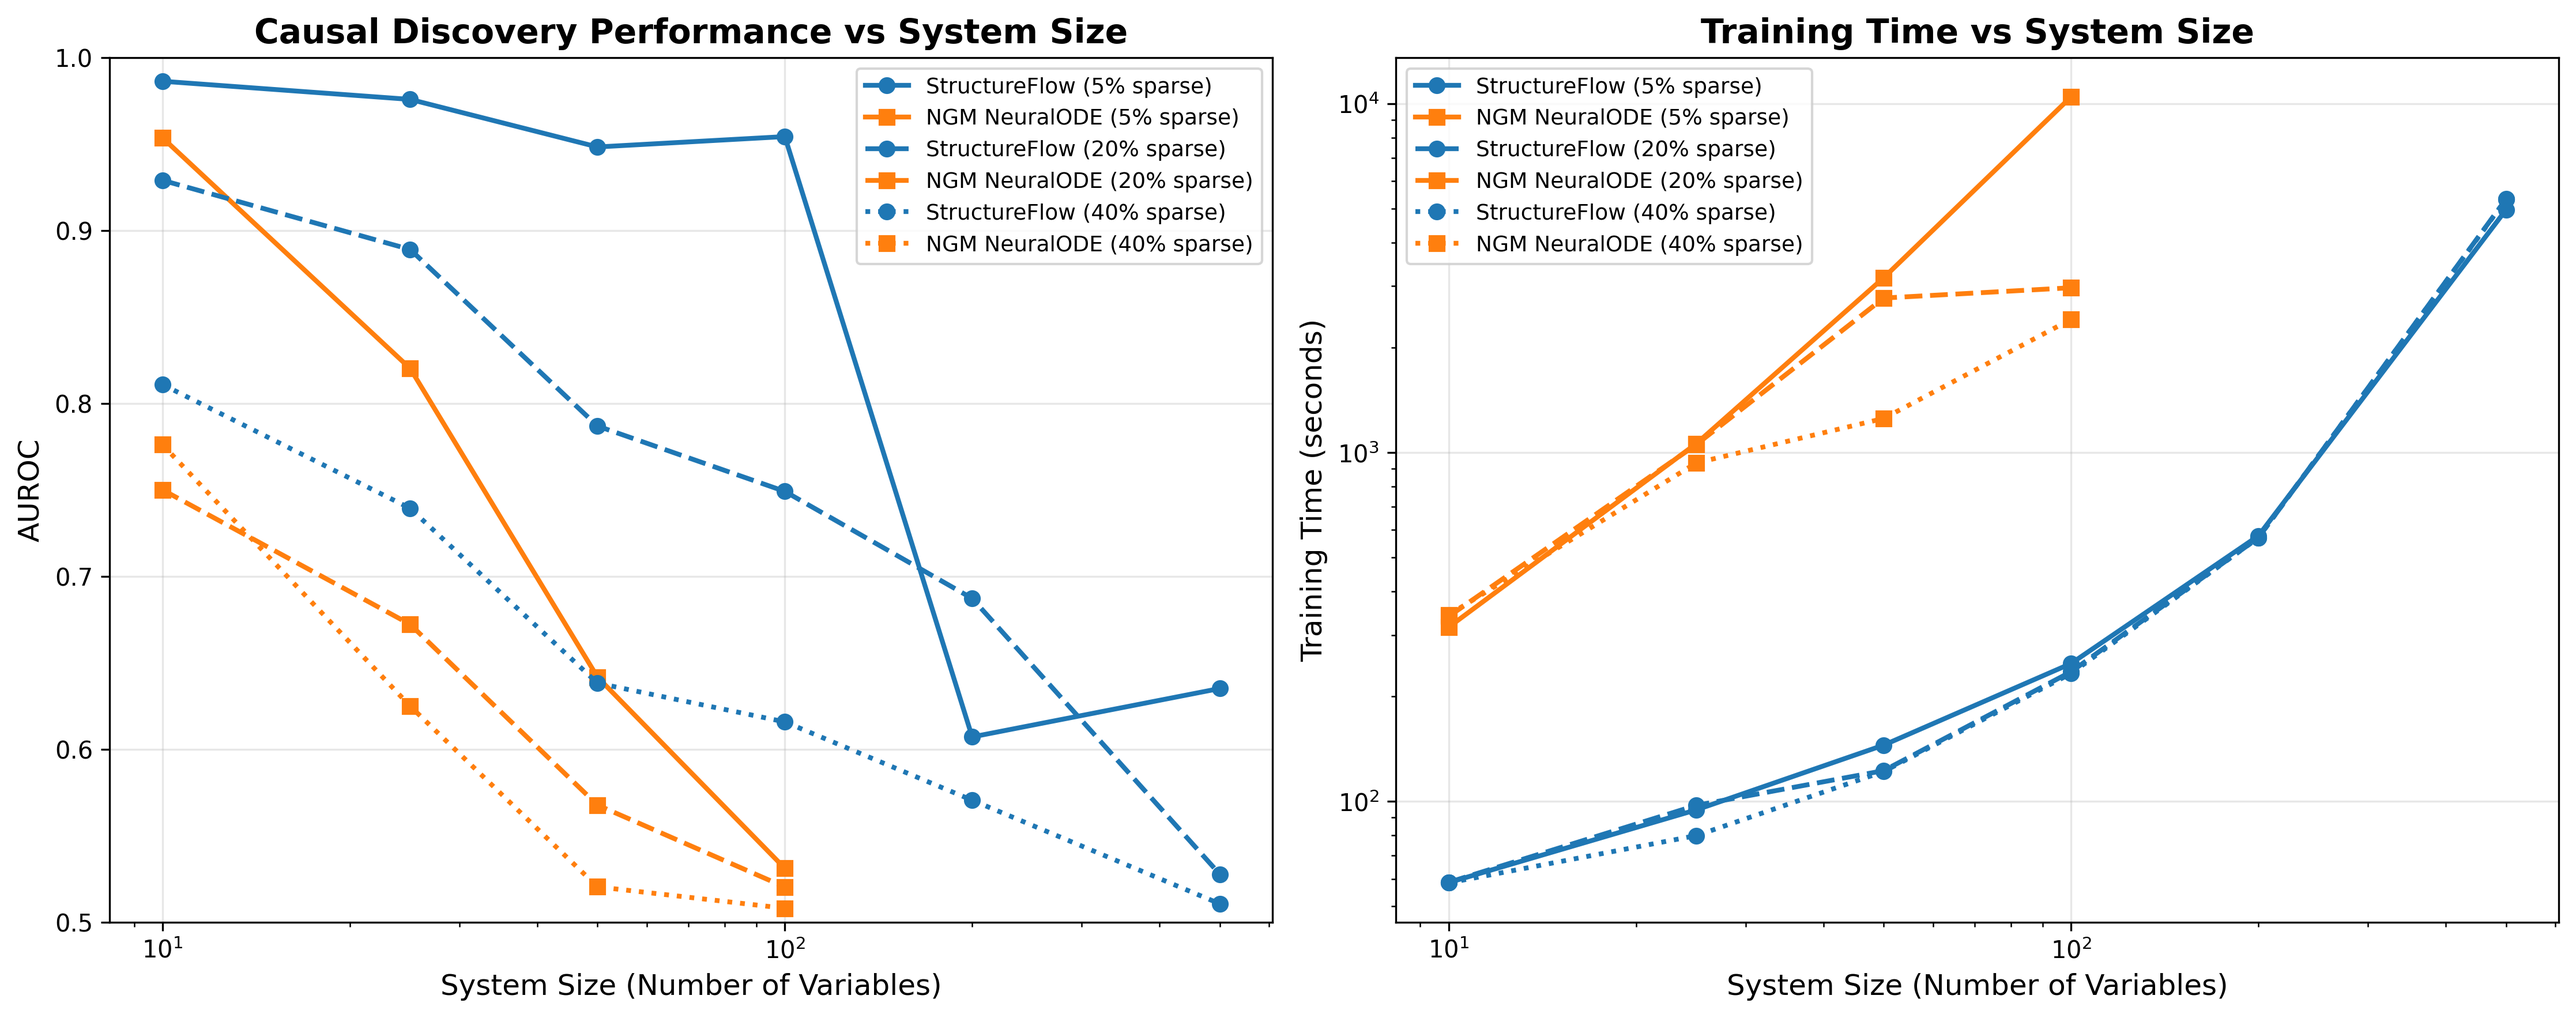
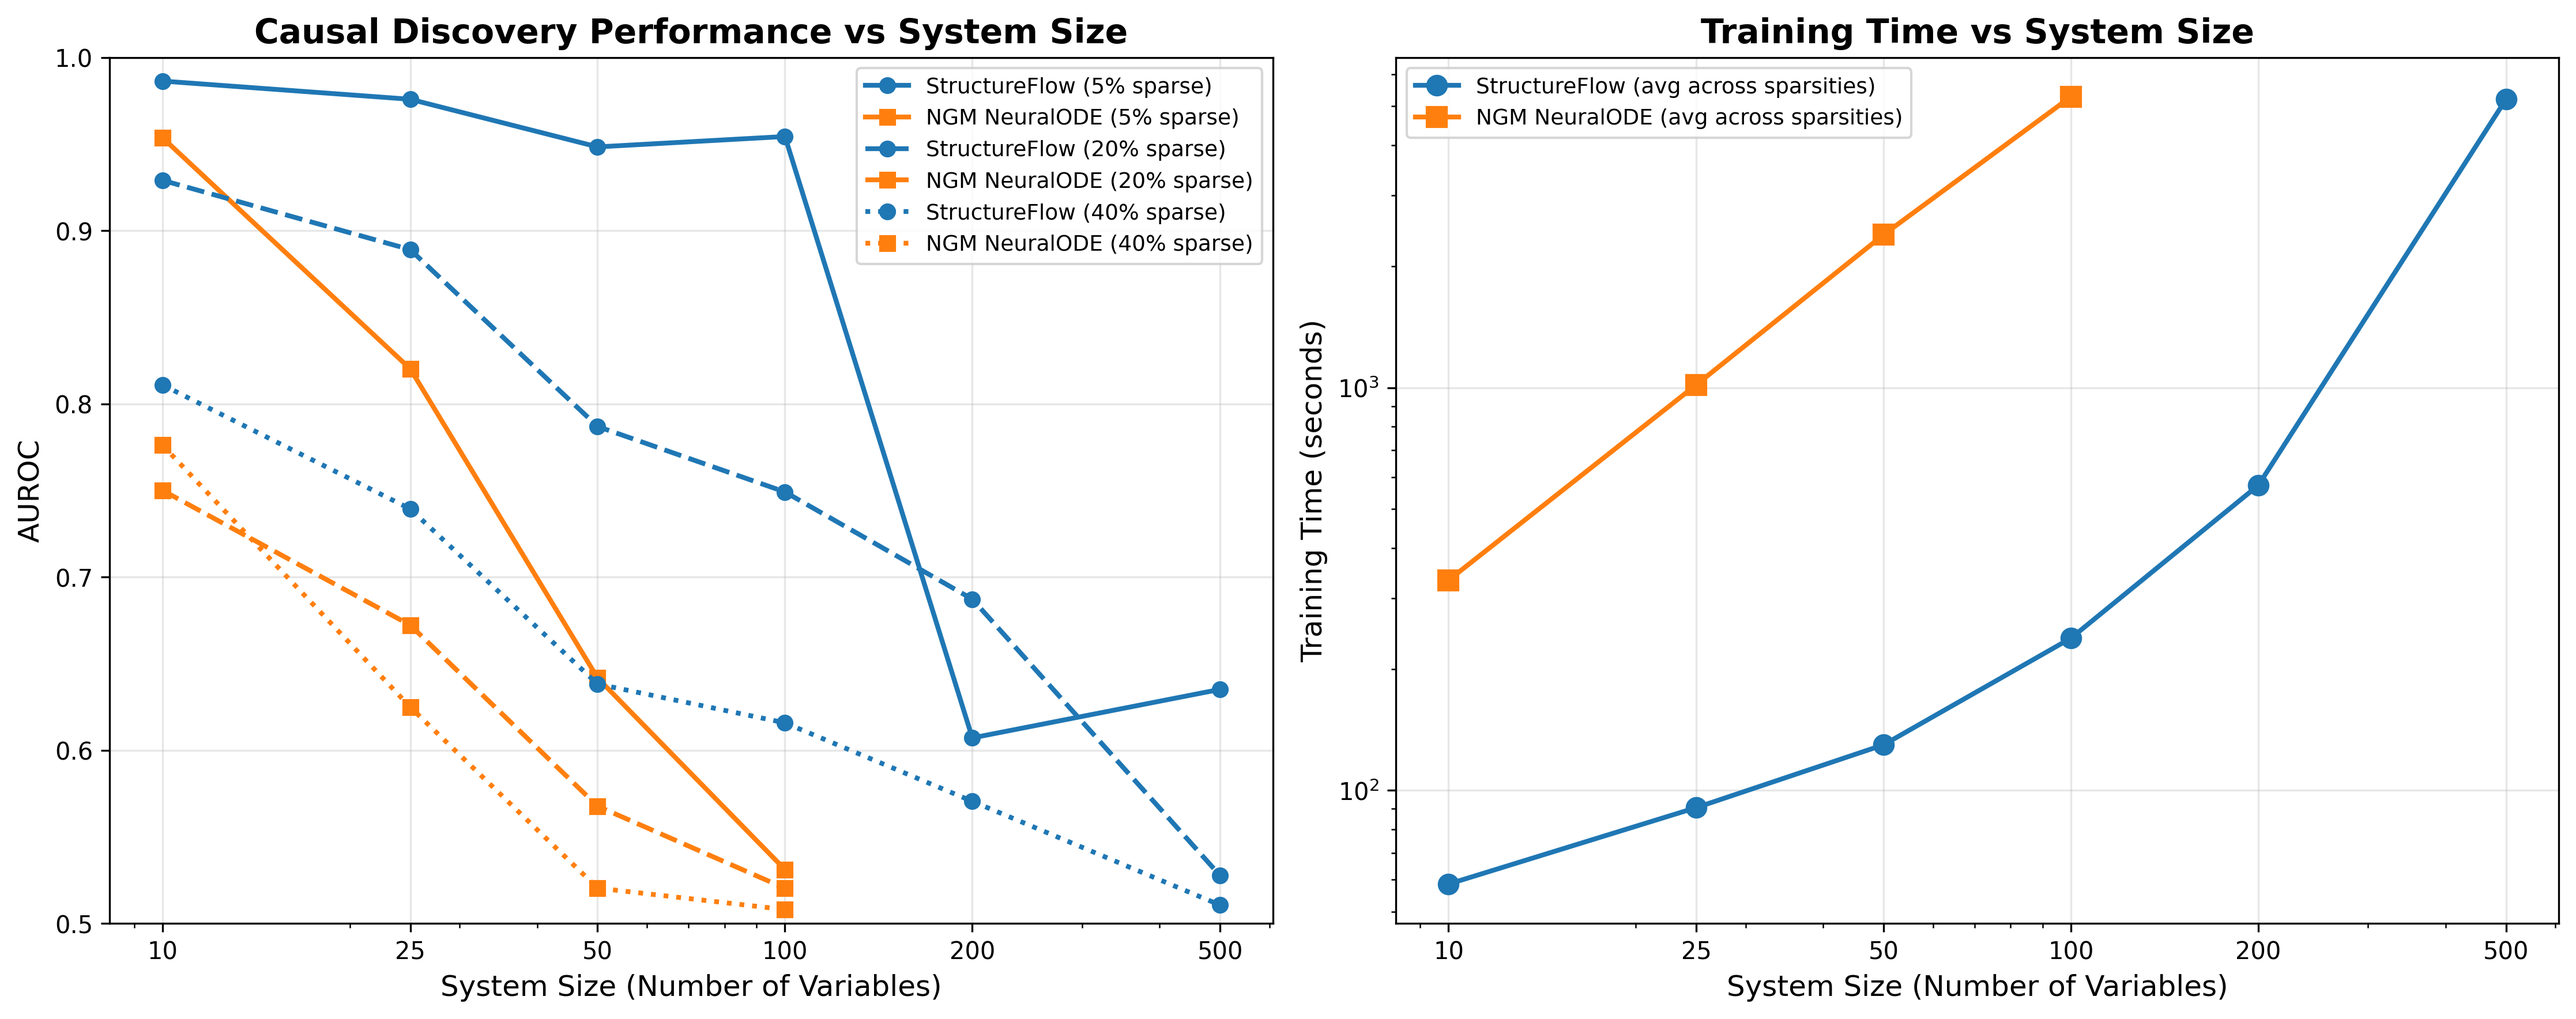
test

diff --git a/scaling_experiment/plot_scaling_results.py b/scaling_experiment/plot_scaling_results.py
@@ -12,25 +12,25 @@ def plot_scaling_results():
     """
 
     # CSV data from the experiment results
-    csv_data = """seed,system_size,sparsity,structureflow_auroc,structureflow_time,ngmnode_auroc,ngmnode_time
-3728,10,0.05,0.9863,58.5515,0.9536,316.0287
-3728,10,0.20,0.9290,58.6428,0.7500,339.1738
-3728,10,0.40,0.8109,58.4385,0.7761,342.7522
-3728,25,0.05,0.9758,94.6083,0.8202,1061.2054
-3728,25,0.20,0.8890,97.4592,0.6722,1054.7041
-3728,25,0.40,0.7393,79.8138,0.6249,934.0664
-3728,50,0.05,0.9483,145.0283,0.6417,3170.8114
-3728,50,0.20,0.7869,122.5391,0.5677,2773.2565
-3728,50,0.40,0.6382,121.8200,0.5204,1252.6854
-3728,100,0.05,0.9543,248.4641,0.5311,10463.3073
-3728,100,0.20,0.7491,235.3687,0.5203,2967.9328
-3728,100,0.40,0.6158,232.6693,0.5080,2409.0556
-3728,200,0.05,0.6071,577.1567,,
-3728,200,0.20,0.6872,569.9031,,
-3728,200,0.40,0.5705,570.0570,,
-3728,500,0.05,0.6351,4965.4467,,
-3728,500,0.20,0.5277,5328.5185,,
-3728,500,0.40,0.5106,5315.9313,,"""
+    csv_data = """seed,system_size,sparsity,structureflow_auroc,structureflow_auprc,structureflow_time,ngmnode_auroc,ngmnode_auprc,ngmnode_time
+3728,10,0.05,0.9863,0.5889,58.5515,0.9536,0.7143,316.0287
+3728,10,0.20,0.9290,0.5838,58.6428,0.7500,0.3324,339.1738
+3728,10,0.40,0.8109,0.6799,58.4385,0.7761,0.6428,342.7522
+3728,25,0.05,0.9758,0.5849,94.6083,0.8202,0.2659,1061.2054
+3728,25,0.20,0.8890,0.5729,97.4592,0.6722,0.3174,1054.7041
+3728,25,0.40,0.7393,0.6392,79.8138,0.6249,0.4913,934.0664
+3728,50,0.05,0.9483,0.5154,145.0283,0.6417,0.1137,3170.8114
+3728,50,0.20,0.7869,0.4816,122.5391,0.5677,0.2288,2773.2565
+3728,50,0.40,0.6382,0.5677,121.8200,0.5204,0.4118,1252.6854
+3728,100,0.05,0.9543,0.5147,248.4641,0.5311,0.0535,10463.3073
+3728,100,0.20,0.7491,0.4620,235.3687,0.5203,0.2061,2967.9328
+3728,100,0.40,0.6158,0.5219,232.6693,0.5080,0.3973,2409.0556
+3728,200,0.05,0.6071,0.1962,577.1567,,,
+3728,200,0.20,0.6872,0.3768,569.9031,,,
+3728,200,0.40,0.5705,0.4719,570.0570,,,
+3728,500,0.05,0.6351,0.1589,4965.4467,,,
+3728,500,0.20,0.5277,0.2181,5328.5185,,,
+3728,500,0.40,0.5106,0.4087,5315.9313,,,"""
 
     df = pd.read_csv(io.StringIO(csv_data))
 
@@ -42,8 +42,8 @@ def plot_scaling_results():
     line_styles = {0.05: "-", 0.20: "--", 0.40: ":"}
     sparsity_labels = {0.05: "5% sparse", 0.20: "20% sparse", 0.40: "40% sparse"}
 
-    # Create figure with two subplots
-    fig, (ax1, ax2) = plt.subplots(1, 2, figsize=(15, 6))
+    # Create figure with three subplots
+    fig, (ax1, ax2, ax3) = plt.subplots(1, 3, figsize=(20, 6))
 
     # Plot 1: AUROC vs System Size
     for sparsity in [0.05, 0.20, 0.40]:
@@ -80,23 +80,21 @@ def plot_scaling_results():
 
     ax1.set_xlabel("System Size (Number of Variables)", fontsize=12)
     ax1.set_ylabel("AUROC", fontsize=12)
-    ax1.set_title(
-        "Causal Discovery Performance vs System Size", fontsize=14, fontweight="bold"
-    )
-    ax1.legend(fontsize=9, loc="best")
+    ax1.set_title("AUROC vs System Size", fontsize=14, fontweight="bold")
+    ax1.legend(fontsize=8, loc="best")
     ax1.grid(True, alpha=0.3)
     ax1.set_ylim(0.5, 1.0)
     ax1.set_xscale("log")
     ax1.set_xticks([10, 25, 50, 100, 200, 500])
     ax1.set_xticklabels([10, 25, 50, 100, 200, 500])
 
-    # Plot 2: Training Time vs System Size
+    # Plot 2: AUPRC vs System Size
     for sparsity in [0.05, 0.20, 0.40]:
         sparsity_data = df[df["sparsity"] == sparsity]
 
         # StructureFlow
         x_sf = sparsity_data["system_size"]
-        y_sf = sparsity_data["structureflow_time"]
+        y_sf = sparsity_data["structureflow_auprc"]
         ax2.plot(
             x_sf,
             y_sf,
@@ -109,9 +107,9 @@ def plot_scaling_results():
         )
 
         # NGM-NODE (filter out NaN values)
-        ngm_data = sparsity_data.dropna(subset=["ngmnode_time"])
+        ngm_data = sparsity_data.dropna(subset=["ngmnode_auprc"])
         x_ngm = ngm_data["system_size"]
-        y_ngm = ngm_data["ngmnode_time"]
+        y_ngm = ngm_data["ngmnode_auprc"]
         ax2.plot(
             x_ngm,
             y_ngm,
@@ -124,14 +122,56 @@ def plot_scaling_results():
         )
 
     ax2.set_xlabel("System Size (Number of Variables)", fontsize=12)
-    ax2.set_ylabel("Training Time (seconds)", fontsize=12)
-    ax2.set_title("Training Time vs System Size", fontsize=14, fontweight="bold")
-    ax2.legend(fontsize=9, loc="best")
+    ax2.set_ylabel("AUPRC", fontsize=12)
+    ax2.set_title("AUPRC vs System Size", fontsize=14, fontweight="bold")
+    ax2.legend(fontsize=8, loc="best")
     ax2.grid(True, alpha=0.3)
-    ax2.set_yscale("log")
+    ax2.set_ylim(0.0, 1.0)
     ax2.set_xscale("log")
     ax2.set_xticks([10, 25, 50, 100, 200, 500])
     ax2.set_xticklabels([10, 25, 50, 100, 200, 500])
+
+    # Plot 3: Training Time vs System Size (averaged over sparsity levels)
+    # Calculate averages for StructureFlow
+    sf_avg_data = df.groupby("system_size")["structureflow_time"].mean().reset_index()
+    ax3.plot(
+        sf_avg_data["system_size"],
+        sf_avg_data["structureflow_time"],
+        color=colors["StructureFlow"],
+        linestyle="-",
+        marker="o",
+        linewidth=2,
+        markersize=8,
+        label="StructureFlow (avg across sparsities)",
+    )
+
+    # Calculate averages for NGM-NODE (only where data exists)
+    ngm_avg_data = (
+        df.dropna(subset=["ngmnode_time"])
+        .groupby("system_size")["ngmnode_time"]
+        .mean()
+        .reset_index()
+    )
+    ax3.plot(
+        ngm_avg_data["system_size"],
+        ngm_avg_data["ngmnode_time"],
+        color=colors["NGM-NODE"],
+        linestyle="-",
+        marker="s",
+        linewidth=2,
+        markersize=8,
+        label="NGM NeuralODE (avg across sparsities)",
+    )
+
+    ax3.set_xlabel("System Size (Number of Variables)", fontsize=12)
+    ax3.set_ylabel("Training Time (seconds)", fontsize=12)
+    ax3.set_title("Training Time vs System Size", fontsize=14, fontweight="bold")
+    ax3.legend(fontsize=9, loc="best")
+    ax3.grid(True, alpha=0.3)
+    ax3.set_yscale("log")
+    ax3.set_xscale("log")
+    ax3.set_xticks([10, 25, 50, 100, 200, 500])
+    ax3.set_xticklabels([10, 25, 50, 100, 200, 500])
 
     # Adjust layout
     plt.tight_layout()
@@ -153,16 +193,20 @@ def plot_scaling_results():
         for _, row in sparsity_data.iterrows():
             system_size = int(row["system_size"])
             sf_auroc = row["structureflow_auroc"]
+            sf_auprc = row["structureflow_auprc"]
             sf_time = row["structureflow_time"]
             ngm_auroc = row["ngmnode_auroc"] if pd.notna(row["ngmnode_auroc"]) else None
+            ngm_auprc = row["ngmnode_auprc"] if pd.notna(row["ngmnode_auprc"]) else None
             ngm_time = row["ngmnode_time"] if pd.notna(row["ngmnode_time"]) else None
 
             print(
-                f"  N={system_size:3d}: StructureFlow AUROC={sf_auroc:.4f}, Time={sf_time:6.1f}s",
+                f"  N={system_size:3d}: StructureFlow AUROC={sf_auroc:.4f}, AUPRC={sf_auprc:.4f}, Time={sf_time:6.1f}s",
                 end="",
             )
             if ngm_auroc is not None:
-                print(f" | NGM-NODE AUROC={ngm_auroc:.4f}, Time={ngm_time:6.1f}s")
+                print(
+                    f" | NGM-NODE AUROC={ngm_auroc:.4f}, AUPRC={ngm_auprc:.4f}, Time={ngm_time:6.1f}s"
+                )
             else:
                 print(" | NGM-NODE: N/A")
 
